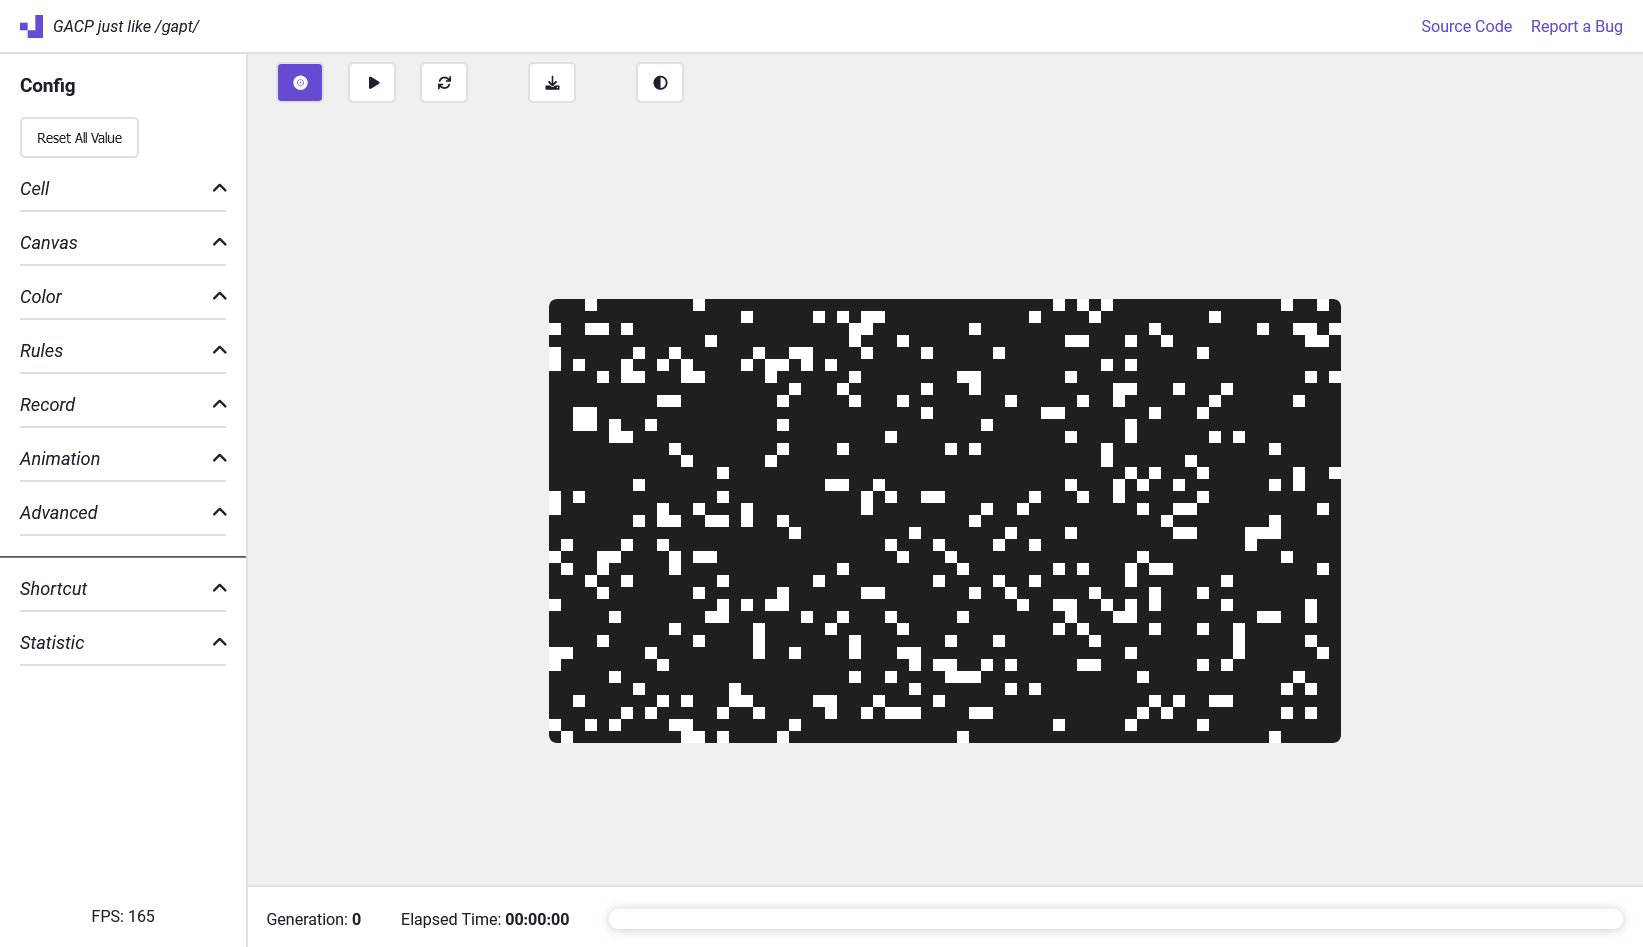
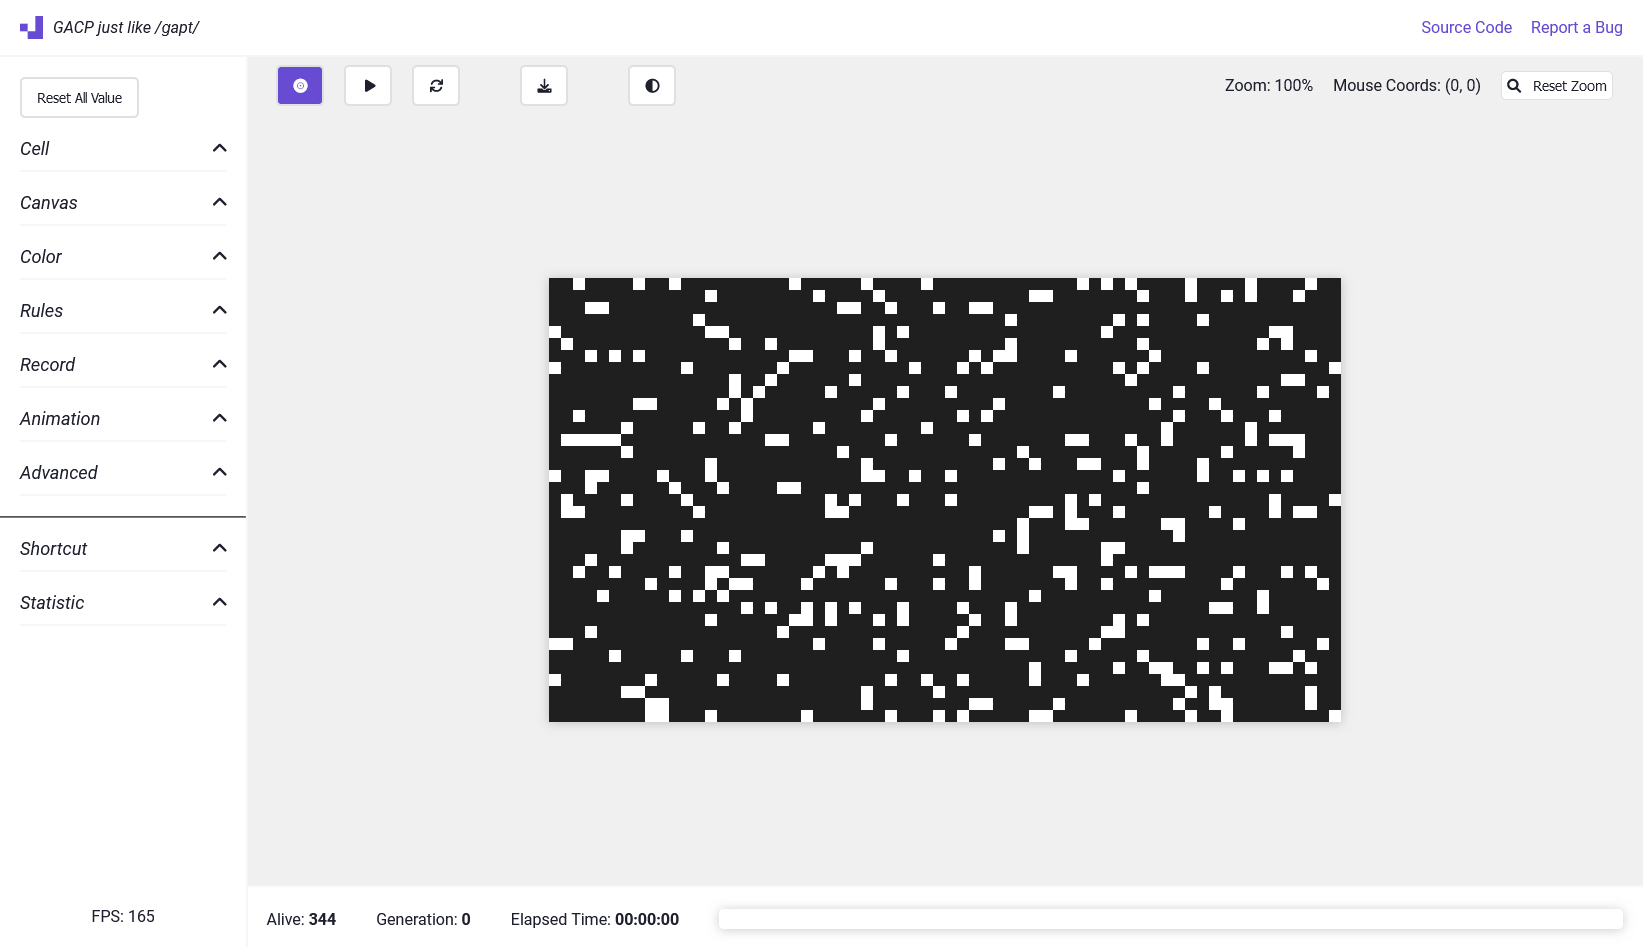
minor UI improvement

diff --git a/src/app.html b/src/app.html
@@ -285,14 +285,18 @@
         <!-- <button id="exportSettings">Export Settings</button> -->
         <!-- <input type="file" id="importSettings" style="display: none;"> -->
         <!-- <button id="importSettingsButton">Import Settings</button> -->
-        <div class="separate">
-            <div class="control-group">
+        <div class="separate" style="margin-left: auto;">
+            <div style="margin: 10px;">
                 <span id="zoomLevel">Zoom: 100%</span>
             </div>
-            <div class="control-group">
+            <div style="margin: 10px;">
                 <span id="mouseCoordinates">Mouse Coords: (0, 0) </span>
             </div>
-            <button id="resetZoom">Reset Zoom</button>
+            <button id="resetZoom">
+                <i class="fa-solid fa-magnifying-glass"></i>
+                &nbsp;
+                Reset Zoom
+            </button>
         </div>
 
     </grid>

diff --git a/src/css/styles.css b/src/css/styles.css
@@ -92,6 +92,8 @@ body {
     margin-left: 20px;
     margin-right: 20px;
     display: flex;
+    justify-content: center;
+    align-items: center;
 }
 
 .separate > button {
@@ -193,6 +195,7 @@ input[type="range"]:focus {
 canvas {
     max-height: 95%;
     max-width: 95%;
+    box-shadow: 0 1px 10px 0 rgba(0, 0, 0, 0.2);
 }
 
 .canvas-container {

diff --git a/README.md b/README.md
@@ -47,6 +47,7 @@ There can be great beauty in chaos
 ## Known Issues
 - **Responsive Design**: The UI is not optimized for mobile devices.
 - Aspect ratio doesn't disable properly
+- Zooming and canvas size
 ## Contributing
 
 We welcome contributions! If you find a bug, have ideas for improvements, or want to help expand the project, feel free to open an issue or submit a pull request.
